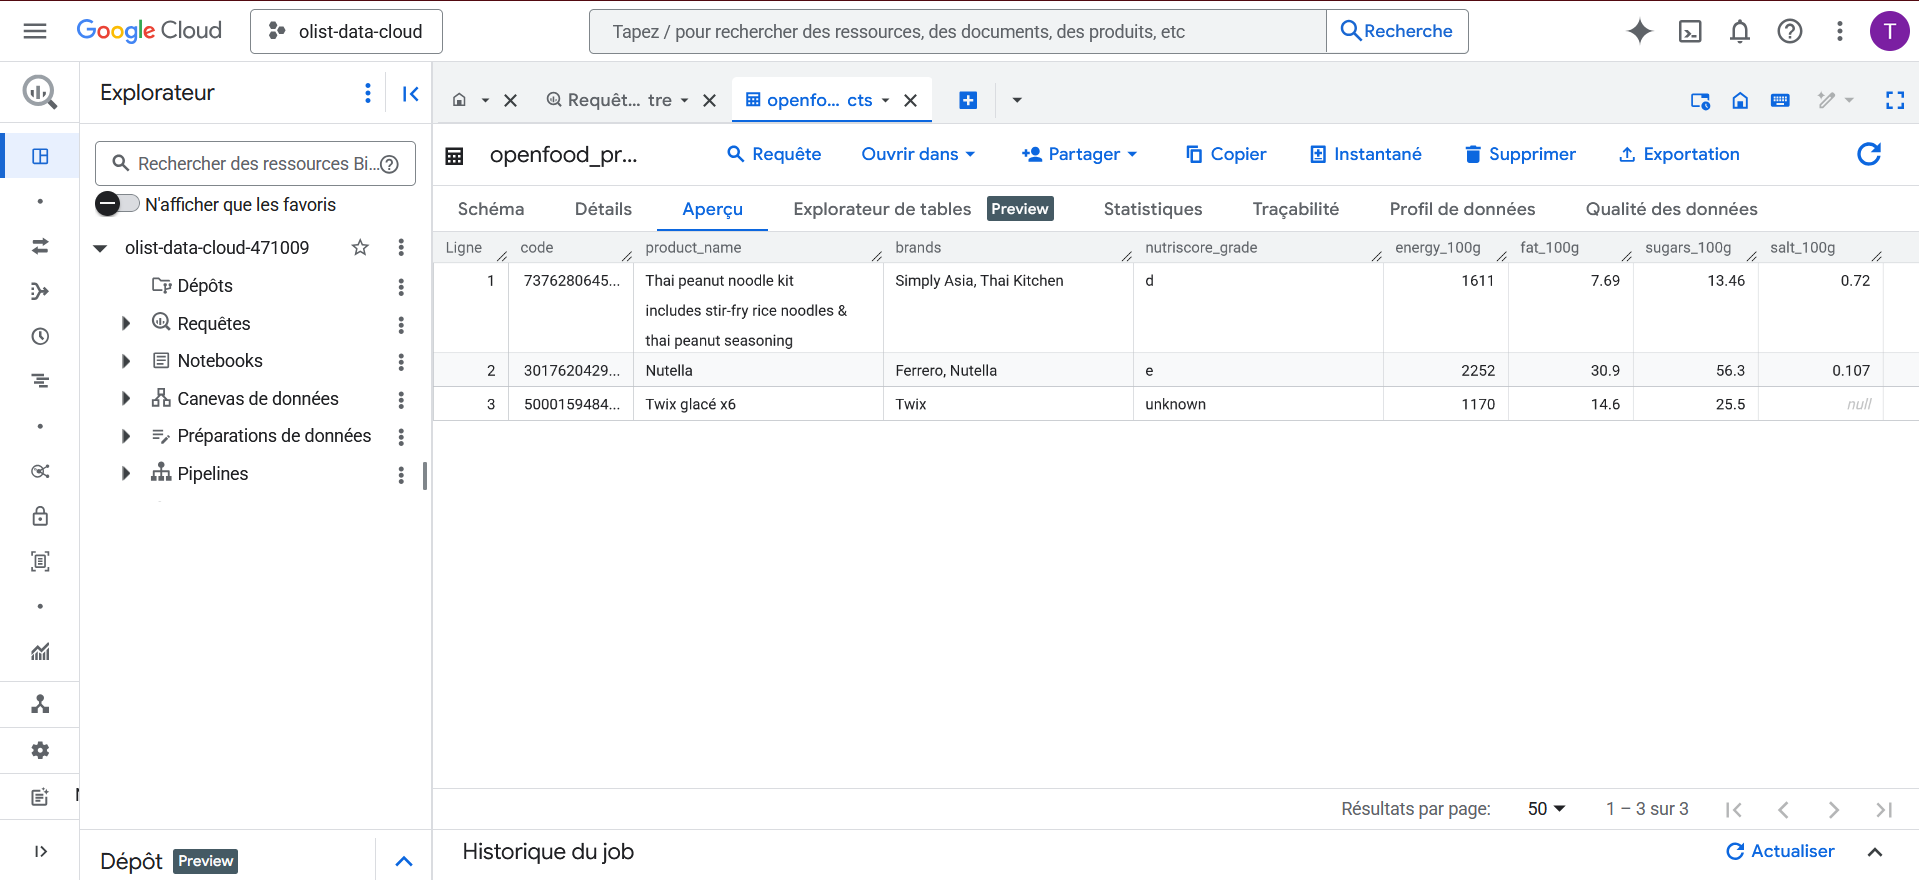
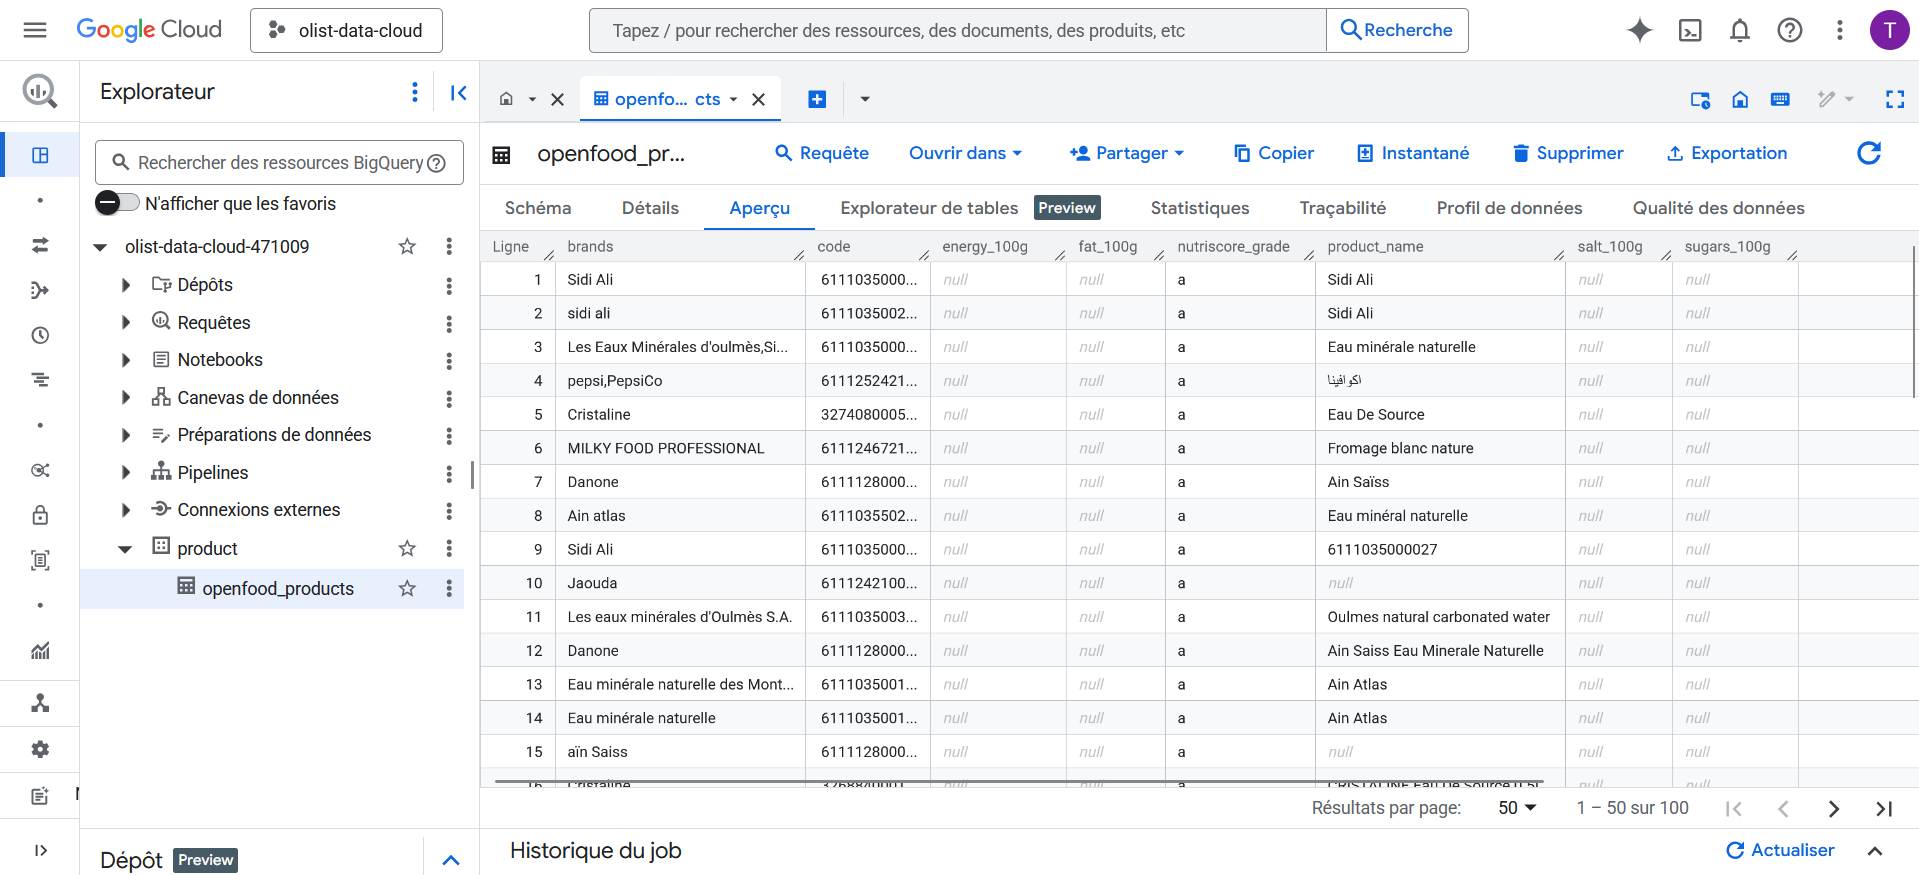
[DEV]: Modify API URL

diff --git a/scripts/extract_openfood_api.py b/scripts/extract_openfood_api.py
@@ -1,31 +1,22 @@
 import requests
 import pandas as pd
 
-# Liste de codes-barres à tester (produits alimentaires)
-codes = [
-    "737628064502",  # Nutella
-    "3017620429484", # Kinder
-    "5000159484695", # Coca Cola
-]
-
 produits = []
-for code in codes:
-    url = f"https://world.openfoodfacts.org/api/v0/product/{code}.json"
-    response = requests.get(url)
-    if response.status_code == 200:
-        data = response.json()
-        if data.get("status") == 1:
-            prod = data["product"]
-            produits.append({
-                "code": code,
-                "product_name": prod.get("product_name", ""),
-                "brands": prod.get("brands", ""),
-                "nutriscore_grade": prod.get("nutriscore_grade", ""),
-                "energy_100g": prod.get("nutriments", {}).get("energy_100g", None),
-                "fat_100g": prod.get("nutriments", {}).get("fat_100g", None),
-                "sugars_100g": prod.get("nutriments", {}).get("sugars_100g", None),
-                "salt_100g": prod.get("nutriments", {}).get("salt_100g", None),
-            })
+url = f"https://world.openfoodfacts.org/api/v2/search?fields=code,product_name,brands,nutriscore_grade,energy_100g,fat_100g,sugars_100g,salt_100g&page_size=1000&page=1"
+response = requests.get(url)
+if response.status_code == 200:
+    data = response.json()
+    for prod in data["products"]:
+        produits.append({
+            "brands": prod.get("brands", ""),
+            "code": prod.get("code", ""),
+            "energy_100g": prod.get("nutriments", {}).get("energy_100g", None),
+            "fat_100g": prod.get("nutriments", {}).get("fat_100g", None),
+            "nutriscore_grade": prod.get("nutriscore_grade", ""),
+            "product_name": prod.get("product_name", ""),
+            "salt_100g": prod.get("nutriments", {}).get("salt_100g", None),
+            "sugars_100g": prod.get("nutriments", {}).get("sugars_100g", None),
+        })
 
 df = pd.DataFrame(produits) 
 df.to_csv("data/lab2/openfoodfacts_sample.csv", index=False) 
